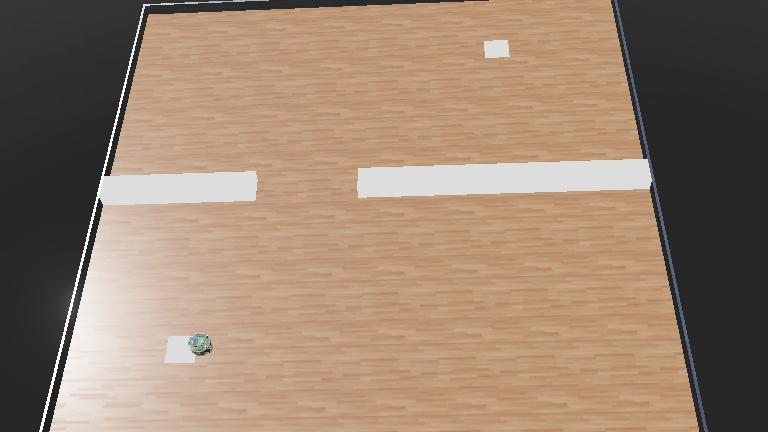
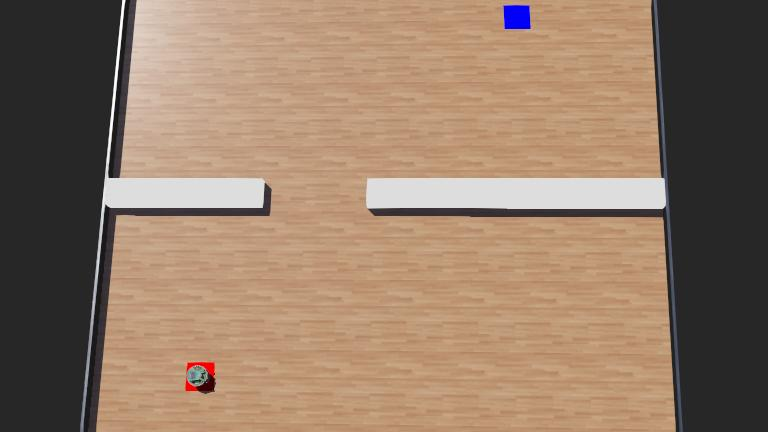
random start and goal

diff --git a/package/map_script.py b/package/map_script.py
@@ -1,0 +1,33 @@
+import os
+import random
+
+
+def generate_map(threshold=0.5):
+    parent_directory = os.path.dirname(os.getcwd())
+    directory = os.path.join(parent_directory, "worlds")
+    input_file = os.path.join(directory, "door.wbt")
+    output_file = os.path.join(directory, "generated_map.wbt")
+
+    with open(input_file, 'r') as f:
+        lines = f.readlines()
+
+    adjusted_lines = []
+    adjust_next_line = False
+    for line in lines:
+        if adjust_next_line:
+            parts = line.split()
+            # Adjust the translation values
+            x_value = random.uniform(-threshold, threshold)
+            y_value = random.uniform(-threshold, threshold)
+            if 0 <= float(parts[1]) + x_value <= 2 and 0 <= float(parts[2]) + y_value <= 2:
+                parts[1] = str(float(parts[1]) + x_value)
+                parts[2] = str(float(parts[2]) + y_value)
+            adjusted_lines.append(" ".join(parts))
+            adjust_next_line = False
+        else:
+            adjusted_lines.append(line)
+            if line.strip().startswith("Solid"):
+                adjust_next_line = True
+
+    with open(output_file, 'w') as f:
+        f.writelines(adjusted_lines)

diff --git a/package/environment.py b/package/environment.py
@@ -3,6 +3,7 @@ from gymnasium import spaces
 import math
 import time
 import numpy as np
+from map_script import generate_map
 from controller import Robot, Lidar, GPS, Supervisor
 from package import cmd_vel, move_forward, rotate
 

diff --git a/run.py b/run.py
@@ -1,8 +1,8 @@
 from package import testing, training
 
 
-# BOARD = "door"
-BOARD = "circle"
+BOARD = "door"
+# BOARD = "circle"
 
 def choose_model():
     print("Please select an algorithm to train:")
